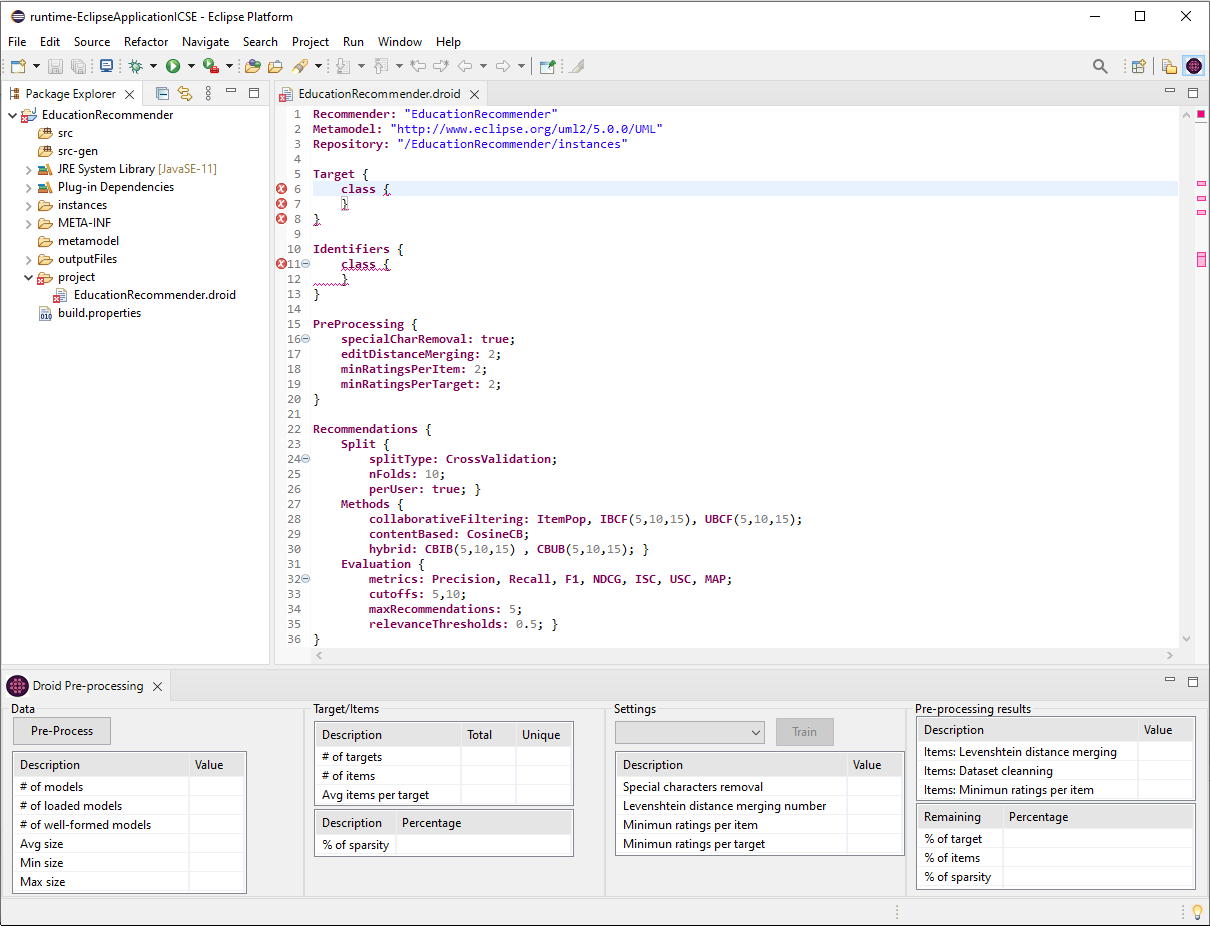
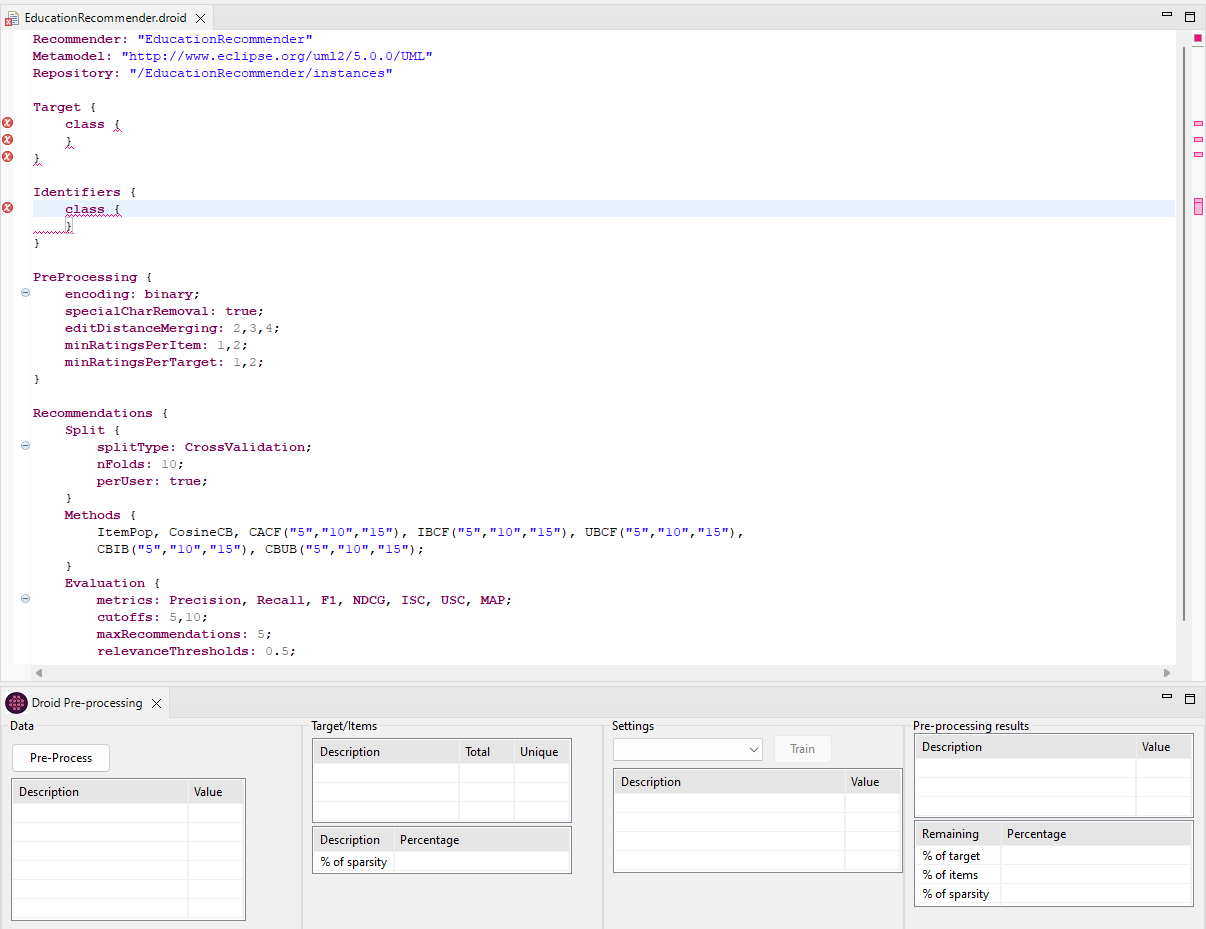
update getStarted

Changed region(s): [[0.0, 0.0, 1.0, 1.0], [0.0, 0.635, 0.0307, 0.6652], [0.0, 0.4536, 0.0307, 0.4838]]

diff --git a/index.html b/index.html
@@ -95,38 +95,39 @@
                         <img src="assets/img/getStarted/droidCreateWizard.png" width="600" height="600">
                         <!-- Main page Droid-->
                         <br><br><p class="lead" align="justify">The wizard will guide you through the new project creation process. It will require you to introduce <b>the project name</b> and to select the format of the meta-model/models of the language for which the RS is being developed <b>(Ecore/XMI, Ecore/Ecore, or Ecore/UML)</b>. Additionally, an optional checkbox offers a default set of recommendation setting options.</p>
-                        <p class="lead" align="justify">Here we set the name to <b>Education recommender</b>, selected the checkbox for default values for recommendation setting and chose <b>Ecore/UML</b> for the technology.</p>
+                        <p class="lead" align="justify">Here we set the name to <b>EducationRecommender</b>, selected the checkbox for default values for recommendation setting and chose <b>Ecore/UML</b> for the technology.</p>
                         <img src="assets/img/getStarted/droidSettingWizard.png" width="600" height="600">
                         <!-- Data source selection page-->
                         <br><br><p class="lead" align="justify">Once you have provided the initial information, the wizard will prompt you to input the data necessary for training and testing the recommender systems. You can use the <b>DataSourceLocal</b> option to load data directly from your local directory, the <b>MDEForge</b> to query a cloud-based model repository, or <a href='http://mar-search.org/' target='_blank'><b>MAR</b></a> to query a search engine. For the purposes of this example, we will be using <b>MAR</b>.</p>
                         <img src="assets/img/getStarted/droidDataSourceMAR.png" width="600" height="600">
                          <!-- MAR page-->
-                        <br><br><p class="lead" align="justify">To query the MAR, simply add your keywords to the search box, separated by commas. For example, let's add the keywords <b>alumni</b> and <b>school</b>. You don't need to specify the model extension, as Droid will do this automatically. Once you've entered your keywords, click the <b>Seach</b> button. You'll see a list of models and the total number of hits from your query. From here, you can select the models you want to import. In this case, we're selecting all the models and clicking the <b>Import</b> button.</p> 
+                        <br><br><p class="lead" align="justify">To query the MAR, simply add your keywords to the search box, separated by commas. For example, let's add the keywords <b>alumni</b> and <b>school</b>. You don't need to specify the model extension, as Droid will do this automatically. Once you've entered your keywords, click the <b>Search</b> button. You'll see a list of models and the total number of hits from your query. From here, you can select the models you want to import. In this case, we're selecting all the models and clicking the <b>Import</b> button.</p> 
                         <img src="assets/img/getStarted/droidDataMAR.png" width="600" height="600">
                         <!-- MAR page 2-->
-                        <br><br><p class="lead" align="justify">After all of the models have been imported, the "Finish" button will become available. Click this button, and Droid will ask if you want to convert the project into a Xtext project. Answer "Yes", and Droid will create the project for you.</p> 
+                        <br><br><p class="lead" align="justify">After all of the models have been imported, the <b>Finish</b> button will become available. Click this button, and Droid will ask if you want to convert the project into a Xtext project. Answer <b>Yes</b>, and Droid will create the project for you.</p> 
                         <img src="assets/img/getStarted/droidFinalWizard.png" width="600" height="500">
                         <!-- Droid editor with newly created project-->
                         <br><br><p class="lead" align="justify">Once you've completed the previous steps, the Droid project will be created and the editor will appear, displaying the default configuration settings provided by the Droid wizard. The editor will describe the class subject to recommendations, called the <b>target</b>; the <b>items</b> that will be recommended; the pre-processing techniques that will be used; and the configuration settings for the recommendations themselves. This includes the splitting configuration, recommendation methods, and evaluation protocol.</p>
                         <p class="lead" align="justify">The following image presents a pre-configured Droid project. In the editor, you can define the target and items for the recommender systems, as well as the identifiers for each class. You can also modify the proposed setting or leave it with the provided default values. In addition, the Droid IDE provides code completion and code validation.</p>                     
                         <img src="assets/img/getStarted/droid4.png" width="1024" height="850"> 
-                        <br><br><p class="lead" align="justify">In this example, we have defined the class <b>Class</b> as target. For the items we defined <b>ownAttribute</b> with the alias "attribute", <b>ownOperation</b> with the alias "methods" and <b>superClass</b> with the alias "super classes". Additionally, we used as primary key and feature the <b>name</b> for the class <b>Class</b> and <b>name</b> and <b>type</b> for <b>Property</b> and <b>Operations</b>. The class <b>Type</b> is also defined and identified for the <b>name</b>. This class is necessary as <b>type</b> is not a primary type. </p> 
+                        <br><br><p class="lead" align="justify">In this example, we have defined the class <b>Class</b> as target. For the items we defined <b>ownedAttribute</b> with the alias <b>"attributes"</b>, <b>ownedOperation</b> with the alias <b>"methods"</b> and <b>superClass</b> with the alias <b>"superClasses"</b>. As primary key and feature we used <b>name</b>. </p> 
                         <img src="assets/img/getStarted/droid5.png" width="950" height="800">
                         <!-- Defining Pre-Processing section-->
                         <br><br><p class="lead2" align="justify"><b>Defining the data pre-processing configuration</b></p>
-                        <p class="lead" align="justify">For the data pre-processing configuration each option is a list and Droid computes each combination. We specified special character removal as true, the edit Levenshtein distance merging number 2, 3 and 4, and for minimum ratings per items and per target the numbers 1, 2 and 3.</p>                     
-                        <img src="assets/img/getStarted/droid6.png" width="900" height="650">
-                        <br><br><p class="lead" align="justify">After we finished defining the pre-processing functionalities, we save our project and press the button <b>Pre-Process</b>. In the <b>Droid Pre-Processing view</b>, the result is shown in 4 different sections. In the first one, the <b>data section</b>, the statistics for the data provided is shown. Then, in <b>the target/items section</b>, the information regarding the target and items is presented. In the third one, the <b>Settings section</b>, each configuration combination is shown with the details. And finally, in the last section, <b>pre-processing results section</b>, the results of applying each particular definition is shown. The configuration options are ranked in order of relevance.</p>  
+                        <p class="lead" align="justify">For the data pre-processing configuration each option is a list and Droid computes each combination. We specified special character removal as true and false, the edit Levenshtein distance merging numbers 2, 3 and 4, and for minimum ratings per items and per target the numbers 1 and 2.</p>                 
+                        <p class="lead" align="justify">After we finished defining the pre-processing functionalities, we save our project and press the button <b>Pre-Process</b>. In the <b>Droid Pre-Processing view</b>, the result is shown in 4 different sections. In the first one, the <b>data section</b>, the statistics for the data provided is shown. Then, in <b>the target/items section</b>, the information regarding the target and items is presented. In the third one, the <b>Settings section</b>, each configuration combination is shown with the details. And finally, in the last section, <b>pre-processing results section</b>, the results of applying each particular definition are shown. The configuration options are ranked in order of relevance.</p>  
                         <img src="assets/img/getStarted/droid7.png" width="850" height="650"> 
                         <!-- Defining the recommendations section-->
                         <br><br><p class="lead2" align="justify"><b>Defining a set of recommender systems to generate and evaluate</b></p>
-                        <p class="lead" align="justify">The recommendations section is divided into 3 parts. In the first one, <b>Split</b>, the configuration for data splitting is set. Here we defined a cross-validation type with a 10 nFolds following a per user. In the second, <b>Methods</b>, the different algorithms we want to try are defined as well as the neighbourhood sizes. Here we included each method supported by Droid and the neighbourhood sizes 10,20,25,50 and 100. Finally, the <b>Evaluation</b> part includes the metrics we want to specify to evaluate the recommenders, the cutoffs values, the maximum number of recommendations, and the relevance of thresholds. Here we specified each metric supported by Droid; cutoffs values of 5,10,15 and 20; maximum recommendations of 5; and relevance of threshold of 0.5.</p>  
-                        <p class="lead" align="justify">After defining the necessary information and saving the Droid project a set of Java classes are generated. With this information generated, and the selected pre-processing configuration setting, we proceed to press the button <b>Train</b>.</p>
+                        <p class="lead" align="justify">The recommendations section is divided into 3 parts. In the first one, <b>Split</b>, the configuration for data splitting is set. Here we defined a cross-validation type with 10 nFolds following a per user. In the second, <b>Methods</b>, the different algorithms we want to try are defined as well as the neighbourhood sizes. Here we included each method supported by Droid and the neighbourhood sizes 5, 10 and 15. Finally, the <b>Evaluation</b> part includes the metrics we want to specify to evaluate the recommenders, the cutoff values, the maximum number of recommendations, and the relevance of thresholds. Here we specified each metric supported by Droid; cutoff values of 5,10 and 15; maximum recommendations of 5; and relevance of threshold of 0.5.</p>  
+                        <p class="lead" align="justify">After defining the necessary information and saving the Droid project a set of Java classes are generated. With this information generated, and the selected pre-processing configuration setting, we proceed to press the button <b>Train</b>. For this example, we chose configuration 22.</p>
                         <img src="assets/img/getStarted/droid8.png" width="850" height="650">                                           
                         <!-- about results-->
                         <br><br><p class="lead2" align="justify"><b>Visualizing the results</b></p>
-                        <p class="lead" align="justify">Finally, The <b>Droid Training Results</b> view is automatically populated with the evaluation results in a drill-down table for each recommendation method and metric. The results are grouped by the recommendation methods categories: Collaborative Filtering, Content-Based and Hybrid. The table makes use of different colours to facilitate the comparison of the metric values based on the metric F1. The recommendation methods with results in the top 20% are shown in green; the ones under the median in red; and the rest are shown in orange. After double-clicking the prefered method a pop-up dialogue is shown asking if we want to deploy that particular recommender. After we press yes the selected method is deployed by Droid into a generic REST service called DroidREST.</p>
-                        <img src="assets/img/getStarted/droid9.png" width="500" height="500">
+                        <p class="lead" align="justify">Finally, The <b>Droid Training Results</b> view is automatically populated with the evaluation results in a drill-down table for each recommendation method and metric. The results are grouped by the recommendation methods categories: Collaborative Filtering, Content-Based and Hybrid. The table makes use of different colours to facilitate the comparison of the metric values based on the metric F1. The recommendation methods with results in the top 20% are shown in green; the ones under the median are in red; and the rest are shown in orange. You can right-click on the preferred method to deploy it into a generic REST service (DroidREST).</p>
+                        <img src="assets/img/getStarted/droid9.png" width="600" height="250">
+                         <br> <br>
+                        <img src="assets/img/getStarted/droid10.png" width="600" height="250">
                     </div>
             </div>
         </section>
